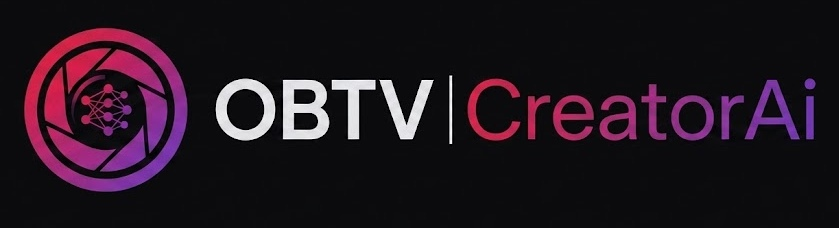
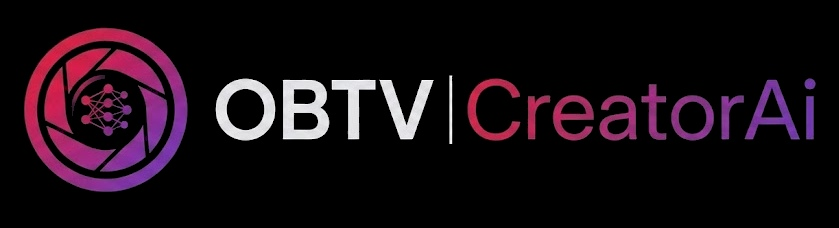
Update visual assets and layout shell component
Replit-Commit-Author: Agent

diff --git a/artifacts/obtv-video-studio/src/components/layout/shell.tsx b/artifacts/obtv-video-studio/src/components/layout/shell.tsx
@@ -31,7 +31,7 @@ export function Shell({ children }: { children: ReactNode }) {
     <div className="flex h-screen w-full bg-background overflow-hidden selection:bg-primary/30 text-foreground dark">
       {/* Sidebar */}
       <div className="w-64 border-r border-border bg-sidebar text-sidebar-foreground flex flex-col">
-        <div className="h-20 flex items-center px-5 border-b border-sidebar-border/50">
+        <div className="h-20 flex items-center bg-black px-5 border-b border-black">
           <img
             src={wordmarkSrc}
             alt="OBTV CreatorAi"
